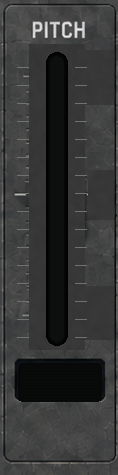
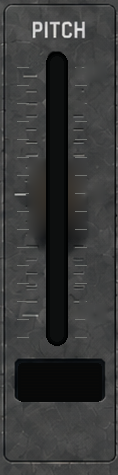
fix(ui): unify 120927 pitch texture

diff --git a/css/looper.css b/css/looper.css
@@ -86,7 +86,7 @@
 }
 #looper .deckPitchScale{
   position:absolute;z-index:4;top:10.5%;right:3%;width:32%;height:62.5%;display:block!important;color:#deded9;
-  background:linear-gradient(90deg,rgba(61,63,62,.18),#3d3f3e 42%,#3d3f3e 100%);
+  background:transparent;
   font:500 clamp(8px,.9vw,13px)/1 var(--font-mono,monospace);pointer-events:none;
 }
 #looper .deckPitchScale span{position:absolute;right:0}
